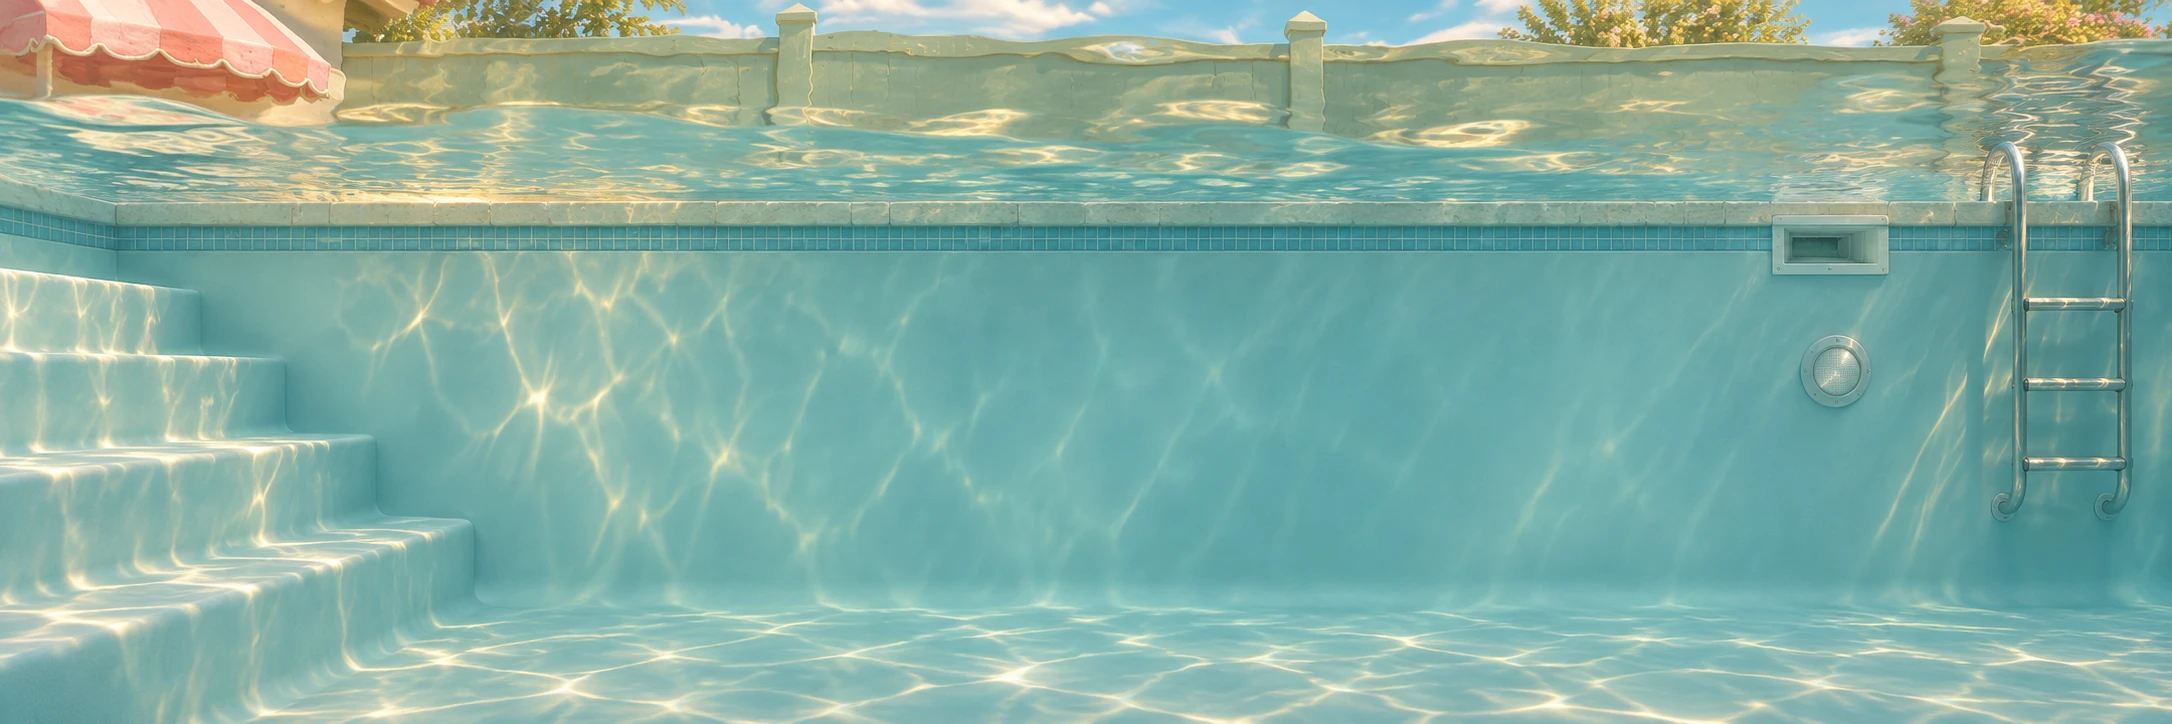
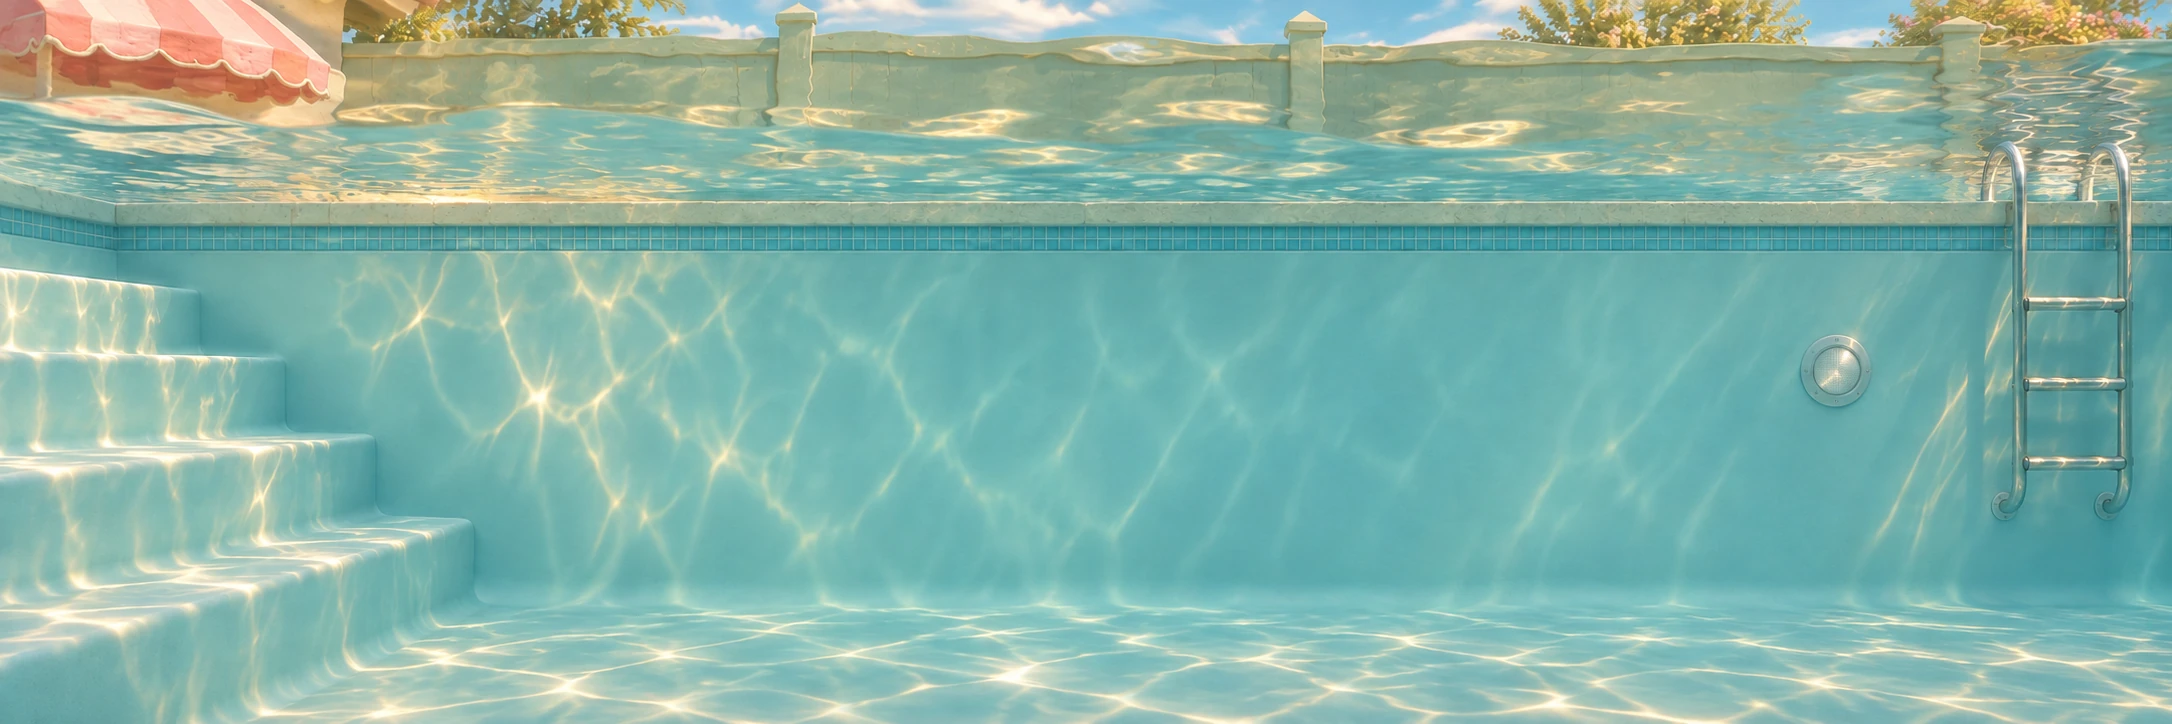
Remove misplaced skimmer opening from underwater set

diff --git a/docs/POOL_STORIES.md b/docs/POOL_STORIES.md
@@ -25,3 +25,5 @@ These are responsive browser frames, not physical phone tests. No OS-level reduc
 ## Preserved
 
 All eight/94 real albums; no invented project claims; confirmed call/text; visitor-reviewed Messages note and copy/download flow; noindex/custom-domain gap; local-only studio. Changes are confined to illustration, underwater story presentation, labels and focus handling.
+
+Final geometry cleanup: removed an incorrectly submerged rectangular skimmer from the generated set, retaining the flush circular light and ladder. No fixture is presented as a skimmer below the waterline.
